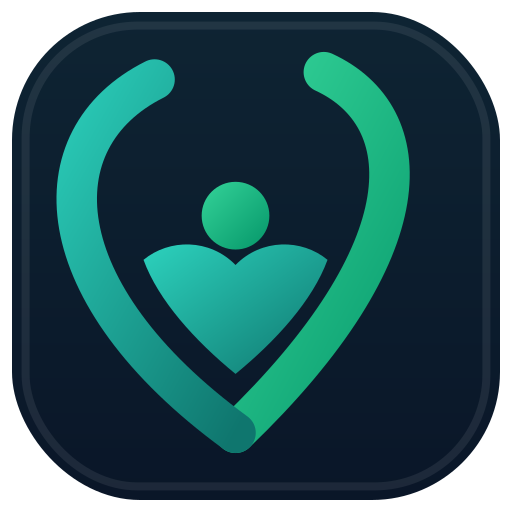
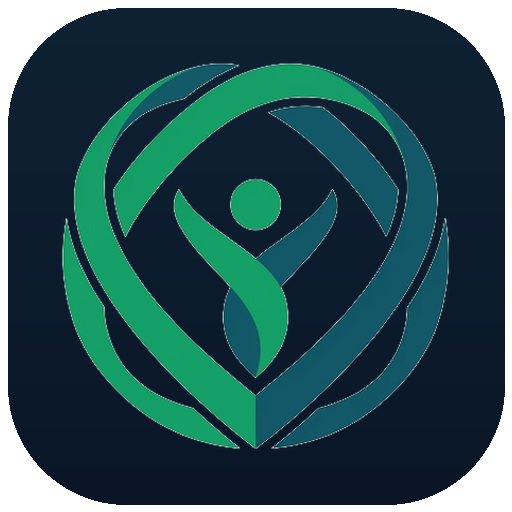
Brand: use the EXACT approved D-var-1 artwork (not a redraw)
- Cropped the approved mockup's emblem → public/hrmate-emblem.png (white→transparent)
- Navy squircle icon re-rendered with the exact emblem (public/hrmate-512.png)
- favicon.svg → emblem wrapper; HLogo renders the exact file
- Approved source preserved at logos/approved-d-var-1.png

diff --git a/src/components/Sidebar.tsx b/src/components/Sidebar.tsx
@@ -31,28 +31,9 @@ const NAV_ITEMS = [
 ];
 
 export function HLogo({ className = "h-10 w-10" }: { className?: string }) {
-  // HRMate brand mark — two swooshes cradling a heart-person (approved D-var-1)
-  return (
-    <svg viewBox="0 0 64 64" className={className}>
-      <defs>
-        <linearGradient id="hl-a" x1="0" y1="0" x2="1" y2="1">
-          <stop offset="0" stopColor="#34d399" />
-          <stop offset="1" stopColor="#059669" />
-        </linearGradient>
-        <linearGradient id="hl-b" x1="0" y1="0" x2="1" y2="1">
-          <stop offset="0" stopColor="#2dd4bf" />
-          <stop offset="1" stopColor="#0f766e" />
-        </linearGradient>
-      </defs>
-      <path d="M44 6 C57 12 58 30 32 55" fill="none" stroke="url(#hl-a)" strokeWidth="5.5" strokeLinecap="round" />
-      <path d="M21 7 C5 15 6 36 32 55" fill="none" stroke="url(#hl-b)" strokeWidth="5.5" strokeLinecap="round" />
-      <circle cx="32" cy="25.5" r="4.6" fill="url(#hl-a)" />
-      <path
-        d="M19.5 31.5 C23 28.6 28.5 28.6 32 32.2 C35.5 28.6 41 28.6 44.5 31.5 C42.5 37 37.5 42.5 32 47 C26.5 42.5 21.5 37 19.5 31.5 Z"
-        fill="url(#hl-b)"
-      />
-    </svg>
-  );
+  // HRMate brand mark (approved D-var-1 artwork — exact file, no recreation)
+  // eslint-disable-next-line @next/next/no-img-element
+  return <img src="/hrmate-emblem.png" alt="HRMate" className={className} />;
 }
 
 export function Sidebar({ role, name, companyName, canApprove = false }: { role: string; name: string; companyName: string; canApprove?: boolean }) {
